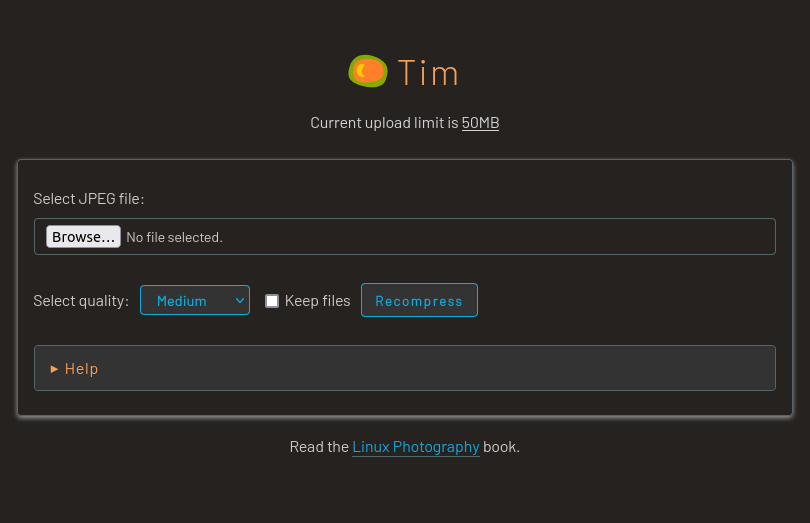
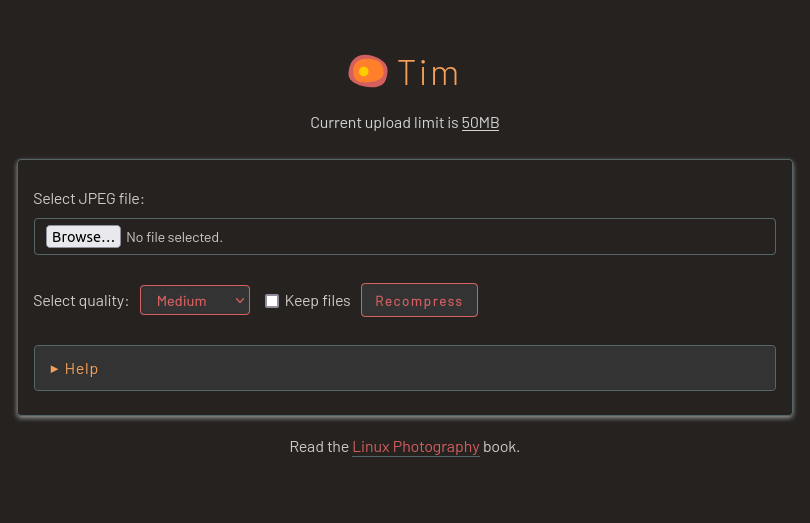
Minor cometic tweaks

diff --git a/css/themes.css b/css/themes.css
@@ -15,8 +15,8 @@ html[data-theme='dark'] {
 	--cfg:   #cecbc4; --cbg:    #252220;
 	--cdark: #999;    --clight: #333;
 	--cmed:  #566;
-	--clink: #1ad;
-	--cemph: #0b9;
+	--clink: #d35f5fff;
+	--cemph: #ff7f2aff;
 }
 
 @media (prefers-color-scheme: dark) {

diff --git a/index.php b/index.php
@@ -1,5 +1,8 @@
 <?php
-include('config.php');
+    // Theme (light, dark, sepia)
+    $theme = "dark";
+    // Footer
+    $footer = "Read the <a href='https://dmpop.gumroad.com/l/linux-photography'>Linux Photography</a> book.";
 ?>
 
 <!DOCTYPE html>
